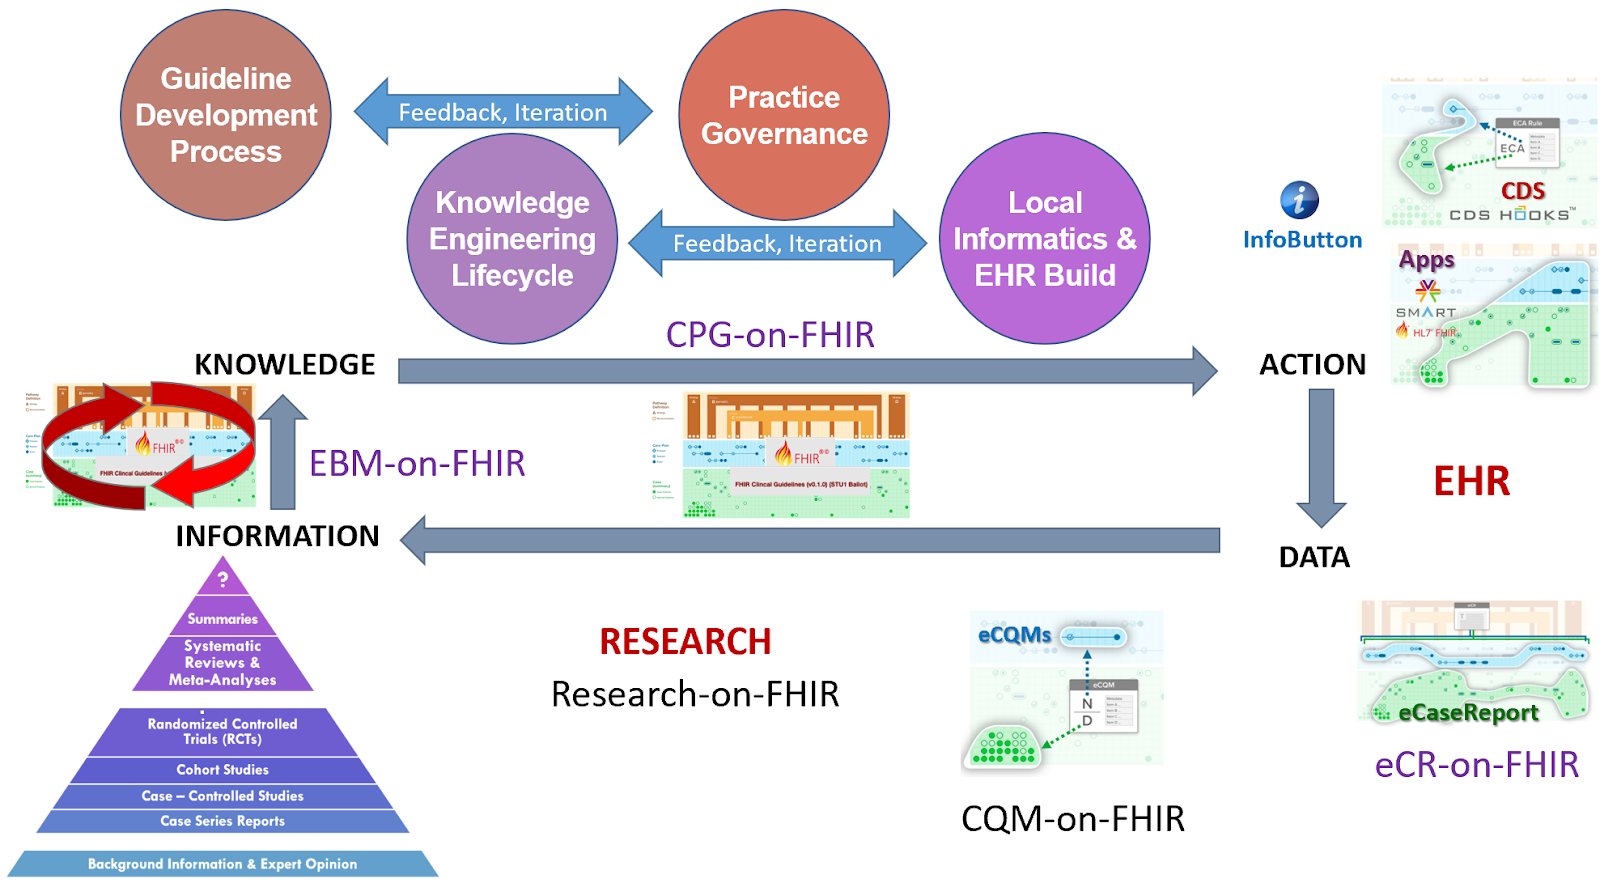
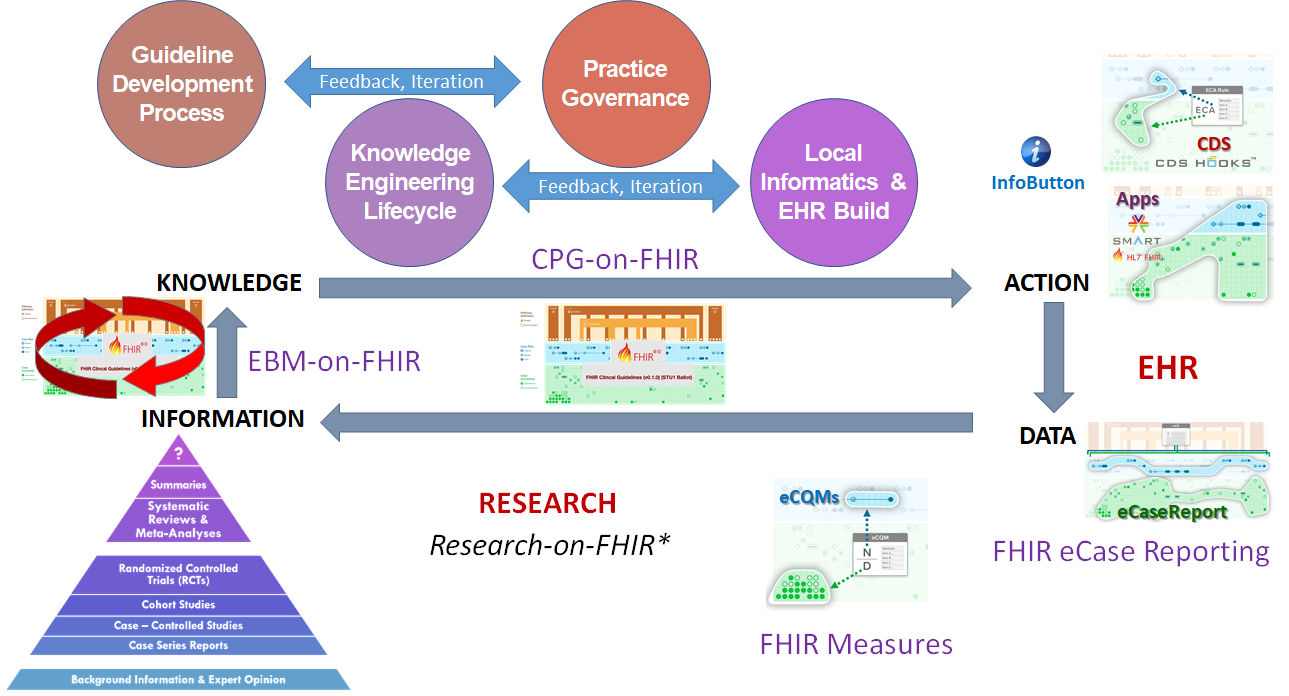
Image and caption changes (Maria)

diff --git a/pages/index.html b/pages/index.html
@@ -52,7 +52,7 @@
 	<p>The premise involves determining the representation of clinical practice guideline recommendations in FHIR as part of an iterative guideline development and implementation process (Figure 1.1). By including all the relevant perspectives (e.g., guideline authors, informaticists, implementers, communicators, evaluators) as part of the iterative process, the resulting computable representation of the recommendations should be well-vetted and more readily implemented.</p>
 
 	<img src="assets/images/Guidelines-iterative-and-incremental-model.png" alt="Guideline development cycle" height="344" width="700"/>
-	<p><em>Figure 1.1 </em>Willet, D., University of Texas Southwestern, 2018</p>
+	<p><em>Figure 1.1 </em>Iterative Guideline Development and Implementation Process (Willet, D., University of Texas Southwestern, 2018)</p>
 
   <a name="scope"> </a>
   <h3>
@@ -106,7 +106,7 @@
 	<p>The need for computable care guidelines can be considered in the context of the data lifecycle, where the representation of the guideline recommendations in FHIR helps deliver actionable knowledge (Figure 1.2).</p>
 
   <img src="assets/images/delivering-actionable-knowledge.png" alt="Delivering actionable knowledge" height="350" width="712"/>
-	<p><em>Figure 1.2 </em>The data lifecycle and impacts to the public’s health (Michaels, M, U.S. Centers for Disease Control and Prevention, 2019). An updated version of this lifecycle directly related to the processes, approaches, and computable artifacts discussed in this section is shown below.</p>
+	<p><em>Figure 1.2 </em>The data lifecycle and impacts to the public’s health (Michaels, M, U.S. Centers for Disease Control and Prevention, 2019).</p>
 
 	<p>By translating the recommendations in clinical practice guidelines at the source, and disseminating a computable version along with the narrative version of the guidelines, the effort of translation would not be repeated across every organization that intends to apply the recommendations. Likewise, unnecessary or unintentional variations as a result of duplicative translation efforts could be prevented with a standard, computable version that is ready to be implemented. In removing the need for translating recommendations at each local clinical system, and removing as much variation as possible through a standard translation, the time needed to apply the recommendations in practice should also be reduced, helping scientific evidence reach patient care more easily, quickly, accurately, and consistently.</p>
 

diff --git a/pages/documentation-approach-01-main-page.md b/pages/documentation-approach-01-main-page.md
@@ -110,7 +110,7 @@ Using approaches, standards, and techniques addressed in further detail in indiv
 
 <summary>
 
-FIG. 04. Data Lifecycle Revisited in context of the CPG-IG:  With the guideline development group, the knowledge engineering team, and local implementation teams (practice governance and informatics/ EHR build) working collaboratively to develop and implement a CPG based on widely adopted standards (e.g., FHIR, CQL), there exists a synergy that can produce all the knowledge products more efficiently and effectively. (NOTE: CQM-on-FHIR refers to the FHIR Measure-IG; eCR-on-FHIR refers to the eCaseReport-IG; and Research-on-FHIR does not exist yet).
+FIG. 04. Data Lifecycle Revisited in context of the CPG-IG:  With the guideline development group, the knowledge engineering team, and local implementation teams (practice governance and informatics/ EHR build) working collaboratively to develop and implement a CPG based on widely adopted standards (e.g., FHIR, CQL), there exists a synergy that can produce all the knowledge products more efficiently and effectively. (<b>NOTE: the Research-on-FHIR does not exist yet</b>).
 
 </summary>
 
@@ -144,11 +144,12 @@ Guideline development involves systematic review of evidence related to specific
 
 Covered in this section:
 
-*   Overview of the Guideline Development process
-*   Description of the Guideline Development Group (GDG) and Scoping
-*   Guideline Development Frameworks
-*   6S Evidence Pyramid and Learning Health System(s)
-    *   Evidence, Guidance, and Rapid Ascent to the Peak During an Emergency Response to a Novel Contagion Pandemic
+* Overview of the Guideline Development process
+* Description of the Guideline Development Group (GDG) and Scoping
+* Guideline Development Frameworks
+* 6S Evidence Pyramid and Learning Health System(s)
+    * Evidence, Guidance, and Rapid Ascent to the Peak During an Emergency Response to a Novel Contagion Pandemic
+    * NOTE: An updated version of this Evidence Pyramid (ref) will be included in the next update of the CPG-IG
 *   Analysis of Evidence
 *   Recommendations
 *   Reporting and Dissemination

diff --git a/pages/documentation-approach-04-guideline-development.md b/pages/documentation-approach-04-guideline-development.md
@@ -56,7 +56,7 @@ Knowledge synthesis is the process in professional community of practice that ap
 
 <summary>
 
-FIG. 18.  The Evidence Pyramid refers to a means to evaluate the quality or validity of evidence (higher toward the top) as well as provide a visual depiction of the amount of evidence (width) ([ref](http://dx.doi.org/10.1136/ebmed-2016-110401)).  The evaluation of the evidence not only informs the guideline development process and resulting recommendations but is further communicated together with the recommendations themselves using the GRADE framework, described below.
+FIG. 18.  The Evidence Pyramid refers to a means to evaluate the quality or validity of evidence (higher toward the top) as well as provide a visual depiction of the amount of evidence (width) ([ref](http://dx.doi.org/10.1136/ebmed-2016-110401)).  The evaluation of the evidence not only informs the guideline development process and resulting recommendations but is further communicated together with the recommendations themselves using the GRADE framework, described below. NOTE: An updated version of this Evidence Pyramid (ref) will be included in the next update of the CPG-IG.
 
 </summary>
 
@@ -76,7 +76,7 @@ The 6S Evidence Pyramid is another framing on the quality or validity of the evi
 
 <summary>
 
-FIG. 19. The 6S Evidence Pyramid with Systems Level (integration of lower levels of evidence into direct patient care) at the peak.
+FIG. 19. The 6S Evidence Pyramid with Systems Level (integration of lower levels of evidence into direct patient care) at the peak. NOTE: An updated version of this Evidence Pyramid ([ref](http://dx.doi.org/10.1136/ebmed-2016-110447)) will be included in the next update of the CPG-IG.
 
 </summary>
 

diff --git a/pages/documentation-approach-04-03-6S-evidence-pyramid-and-learning-health-systems.md b/pages/documentation-approach-04-03-6S-evidence-pyramid-and-learning-health-systems.md
@@ -23,7 +23,7 @@ The 6S Evidence Pyramid is another framing on the quality or validity of the evi
 
 <summary>
 
-FIG. 22. The 6S Evidence Pyramid with Systems Level (integration of lower levels of evidence into direct patient care) at the peak.
+FIG. 22. The 6S Evidence Pyramid with Systems Level (integration of lower levels of evidence into direct patient care) at the peak. NOTE: An updated version of this Evidence Pyramid [ref](http://dx.doi.org/10.1136/ebmed-2016-110447) will be included in the next update of the CPG-IG.
 
 </summary>
 
